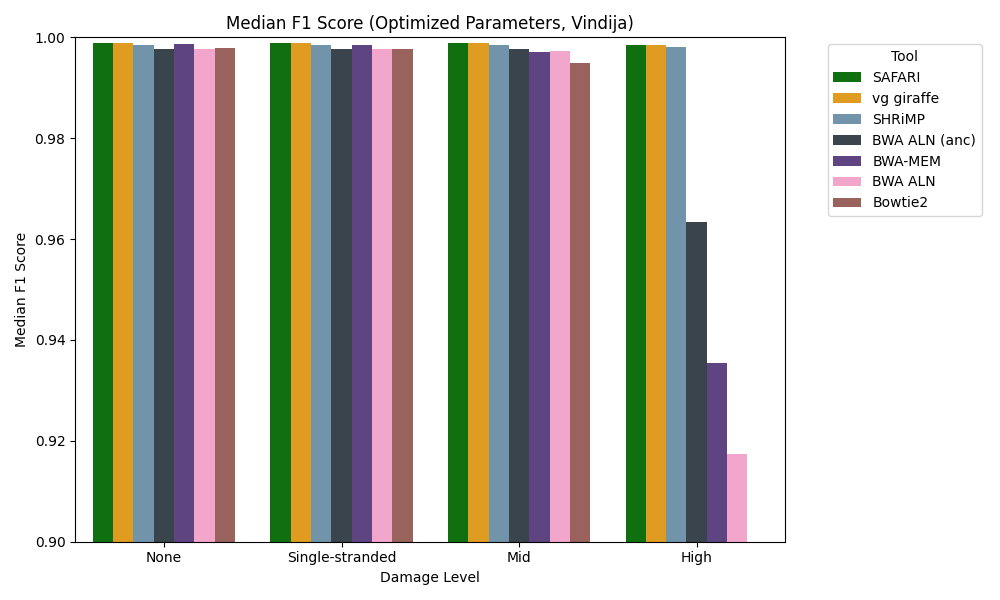
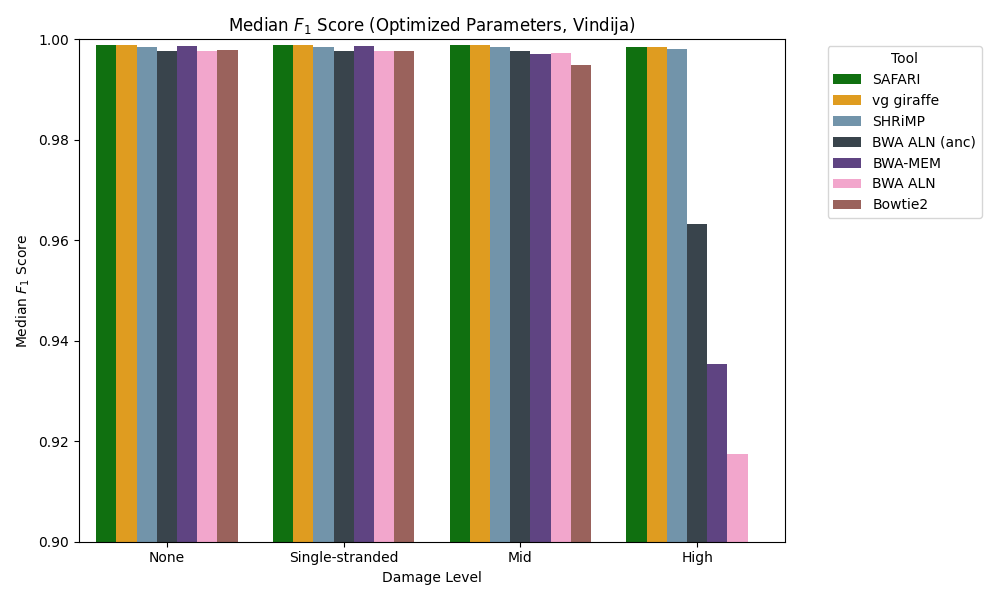
Update

diff --git a/linear_experiment/human_mito/stat_results/plot_F1_optimized_all.py b/linear_experiment/human_mito/stat_results/plot_F1_optimized_all.py
@@ -6,7 +6,7 @@ import numpy as np
 
 def optimize_k_w(group):
     optimal_row = group.loc[group['sensitivity'].idxmax()]
-    print(f"Selected w: {optimal_row['k']}, k: {optimal_row['w']}")
+    print(f"Selected k: {optimal_row['k']}, w: {optimal_row['w']}")
     return optimal_row[['k', 'w']]
 
 def main():
@@ -36,9 +36,9 @@ def main():
 
     plt.figure(figsize=(10, 6))
     sns.barplot(data=median_f1_scores, x='damage_level', y='f1', hue='tool', palette=corrected_palette, hue_order=high_damage_order)
-    plt.title(r'Median $F_\{1}$ Score (Optimized Parameters, ' + sys.argv[3] + ")")
+    plt.title(r'Median $F_1$ Score (Optimized Parameters, ' + sys.argv[3] + ")")
     plt.xlabel('Damage Level')
-    plt.ylabel(r'Median $F_\{1}$ Score')
+    plt.ylabel(r'Median $F_1$ Score')
     plt.legend(title='Tool', bbox_to_anchor=(1.05, 1), loc='upper left')
     plt.ylim(0.90, 1)
     plt.tight_layout()
